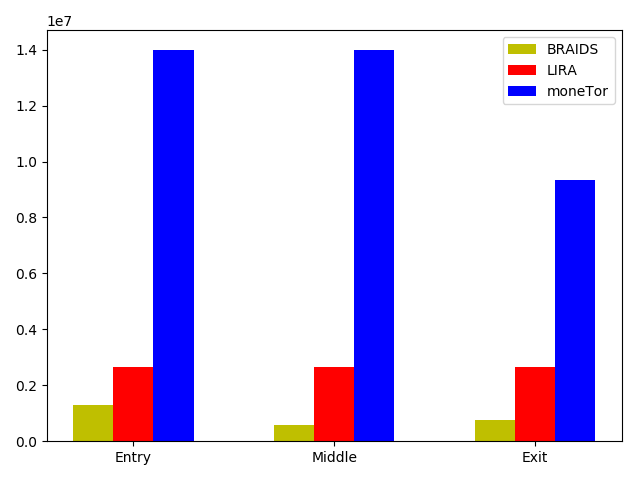
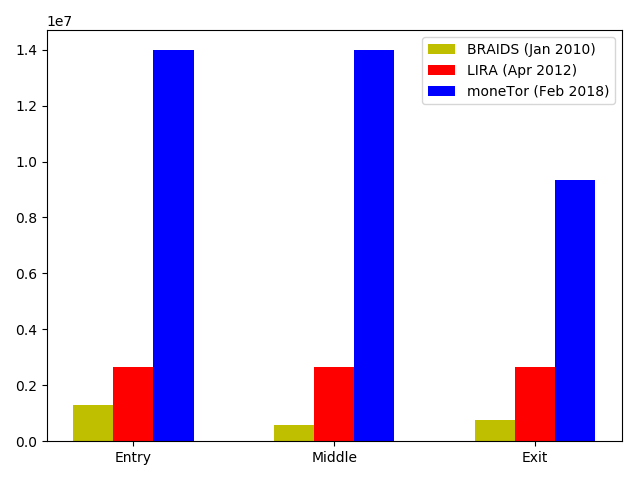
up legend

Changed region(s): [[0.6562, 0.0625, 0.9688, 0.2188]]

diff --git a/tools/bw_analysis.py b/tools/bw_analysis.py
@@ -210,7 +210,7 @@ def analyse_bw(network_state_files, outpath):
     
   ax.set_xticks(np.arange(3))
   ax.set_xticklabels(('Entry', 'Middle', 'Exit'))
-  ax.legend((p0[0], p1[0], p2[0]), ('BRAIDS', 'LIRA', 'moneTor'))
+  ax.legend((p0[0], p1[0], p2[0]), ('BRAIDS (Jan 2010)', 'LIRA (Apr 2012)', 'moneTor (Feb 2018)'))
   ax.autoscale_view()
   plt.tight_layout()
   plt.savefig(outpath)
